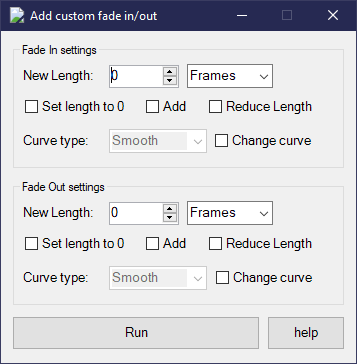
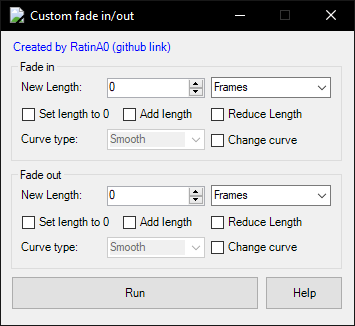
change window title, preview pic

diff --git a/CustomFades/WndForm.Designer.cs b/CustomFades/WndForm.Designer.cs
@@ -344,7 +344,7 @@
             this.Icon = ((System.Drawing.Icon)(resources.GetObject("$this.Icon")));
             this.MaximizeBox = false;
             this.Name = "WndForm";
-            this.Text = "Add custom fade in/out";
+            this.Text = "Custom fade in/out";
             this.FadeOutGroup.ResumeLayout(false);
             this.FadeOutGroup.PerformLayout();
             ((System.ComponentModel.ISupportInitialize)(this.nudFadeOut)).EndInit();
